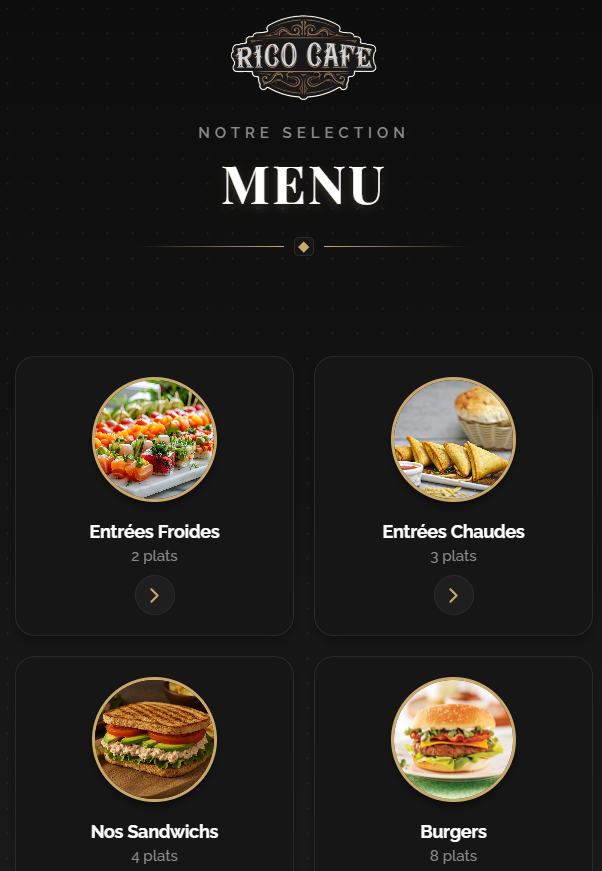
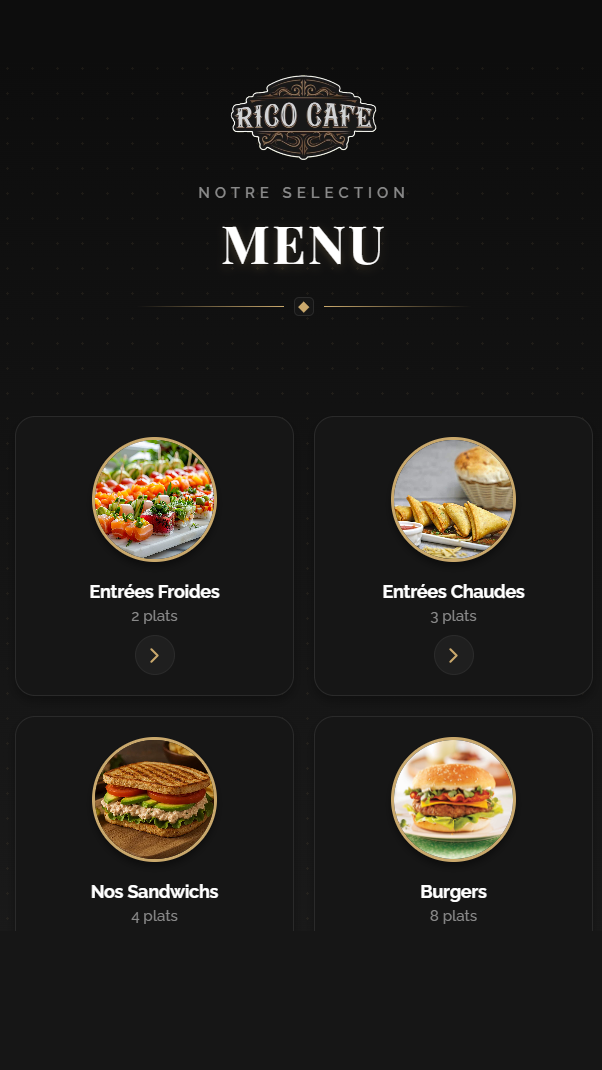
Agrandissement du smartphone section avantages au format 9:16 et ajustement de l'image Rico Cafe

diff --git a/style.css b/style.css
@@ -559,15 +559,83 @@ button { border: none; cursor: pointer; font-family: inherit; }
 /* ADVANTAGES */
 .advantages { padding: var(--section-py) 0; background: var(--white); }
 .advantages-layout { display: grid; grid-template-columns: 1fr 1fr; gap: 80px; align-items: center; }
-.advantages-visual { position: relative; }
-.adv-phone-mini { width: 240px; height: 480px; background: var(--dark-2); border-radius: 36px; padding: 8px; margin: 0 auto; box-shadow: var(--shadow-lg); position: relative; z-index: 2; }
-.adv-phone-mini-screen { width: 100%; height: 100%; border-radius: 28px; overflow: hidden; background: #fff; }
-.adv-phone-mini-screen img { width: 100%; height: 100%; object-fit: cover; object-position: top; }
-.adv-floating-badge { position: absolute; background: var(--white); border-radius: var(--radius-md); padding: 14px 18px; box-shadow: var(--shadow-md); border: 1px solid var(--gray-border); font-size: 13px; font-weight: 600; display: flex; align-items: center; gap: 10px; animation: float 3s ease-in-out infinite; }
+.advantages-visual { position: relative; width: 100%; max-width: 440px; margin: 0 auto; }
+.adv-phone-mini {
+  box-sizing: content-box;
+  width: 288px;
+  height: 512px;
+  background: #1C1C1E;
+  border-radius: 46px;
+  padding: 11px;
+  border: 1px solid rgba(255, 255, 255, 0.16);
+  margin: 0 auto;
+  box-shadow: 0 0 0 1px rgba(0, 0, 0, 0.5),
+              0 30px 80px rgba(0, 0, 0, 0.22);
+  position: relative;
+  z-index: 2;
+  overflow: hidden;
+}
+.adv-phone-mini::before {
+  content: "";
+  position: absolute;
+  top: 17px;
+  left: 50%;
+  transform: translateX(-50%);
+  width: 78px;
+  height: 20px;
+  background: #1C1C1E;
+  border-radius: 20px;
+  z-index: 10;
+}
+.adv-phone-mini::after {
+  content: "";
+  position: absolute;
+  bottom: 17px;
+  left: 50%;
+  transform: translateX(-50%);
+  width: 90px;
+  height: 4px;
+  background: rgba(255, 255, 255, 0.5);
+  border-radius: 2px;
+  z-index: 10;
+}
+.adv-phone-mini-screen {
+  width: 100%;
+  height: 100%;
+  aspect-ratio: 9 / 16;
+  border-radius: 35px;
+  overflow: hidden;
+  background: #111111;
+  position: relative;
+}
+.adv-phone-mini-screen img {
+  width: 100%;
+  height: 100%;
+  object-fit: cover;
+  object-position: top center;
+  display: block;
+  user-select: none;
+  -webkit-user-drag: none;
+}
+.adv-floating-badge {
+  position: absolute;
+  background: var(--white);
+  border-radius: var(--radius-md);
+  padding: 14px 18px;
+  box-shadow: var(--shadow-md);
+  border: 1px solid var(--gray-border);
+  font-size: 13px;
+  font-weight: 600;
+  display: flex;
+  align-items: center;
+  gap: 10px;
+  animation: float 3s ease-in-out infinite;
+  z-index: 5;
+}
 .adv-floating-badge .badge-icon { width: 36px; height: 36px; background: var(--orange-soft); border-radius: 8px; display: flex; align-items: center; justify-content: center; color: var(--orange); flex-shrink: 0; }
 .adv-floating-badge .badge-icon svg { width: 18px; height: 18px; }
-.adv-floating-badge:nth-child(2) { top: -20px; right: -20px; }
-.adv-floating-badge:nth-child(3) { bottom: 60px; left: -30px; animation-delay: 1.5s; }
+.adv-floating-badge:nth-child(2) { top: 15px; right: -10px; }
+.adv-floating-badge:nth-child(3) { bottom: 50px; left: -20px; animation-delay: 1.5s; }
 .advantages-list {
   display: flex;
   flex-direction: column;
@@ -769,7 +837,14 @@ button { border: none; cursor: pointer; font-family: inherit; }
   .steps-grid { grid-template-columns: 1fr; }
   .steps-grid::before { display: none; }
   .advantages-layout { grid-template-columns: 1fr; gap: 48px; }
-  .advantages-visual { display: none; }
+  .advantages-visual { display: flex; justify-content: center; width: 100%; max-width: 360px; margin: 0 auto; }
+  .adv-phone-mini {
+    box-sizing: content-box;
+    width: 252px;
+    height: 448px;
+    border-radius: 40px;
+    padding: 10px;
+  }
 }
 
 @media (max-width: 768px) {
@@ -788,6 +863,13 @@ button { border: none; cursor: pointer; font-family: inherit; }
     height: 400px;
     border-width: 9px;
     border-radius: 34px;
+  }
+  .adv-phone-mini {
+    box-sizing: content-box;
+    width: 225px;
+    height: 400px;
+    border-radius: 34px;
+    padding: 9px;
   }
   .advantages-list { gap: 12px; margin-top: 20px; }
   .adv-item { padding: 14px 16px; gap: 14px; }
@@ -810,6 +892,17 @@ button { border: none; cursor: pointer; font-family: inherit; }
     height: 368px;
     border-width: 8px;
     border-radius: 30px;
+  }
+  .adv-phone-mini {
+    box-sizing: content-box;
+    width: 207px;
+    height: 368px;
+    border-radius: 30px;
+    padding: 8px;
+  }
+  .adv-floating-badge {
+    padding: 10px 14px;
+    font-size: 11px;
   }
   .nav-logo img { height: 38px; }
   .nav-cta .btn-sm { padding: 9px 16px; font-size: 13px; }
